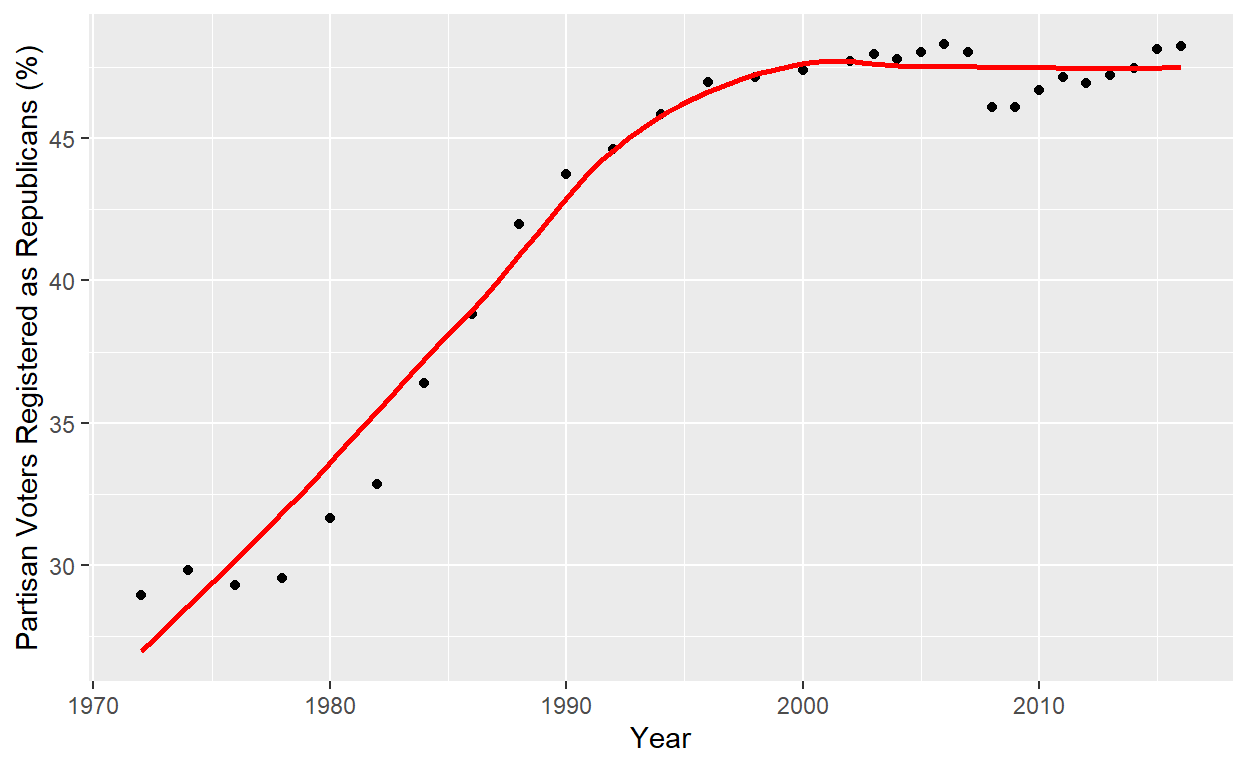
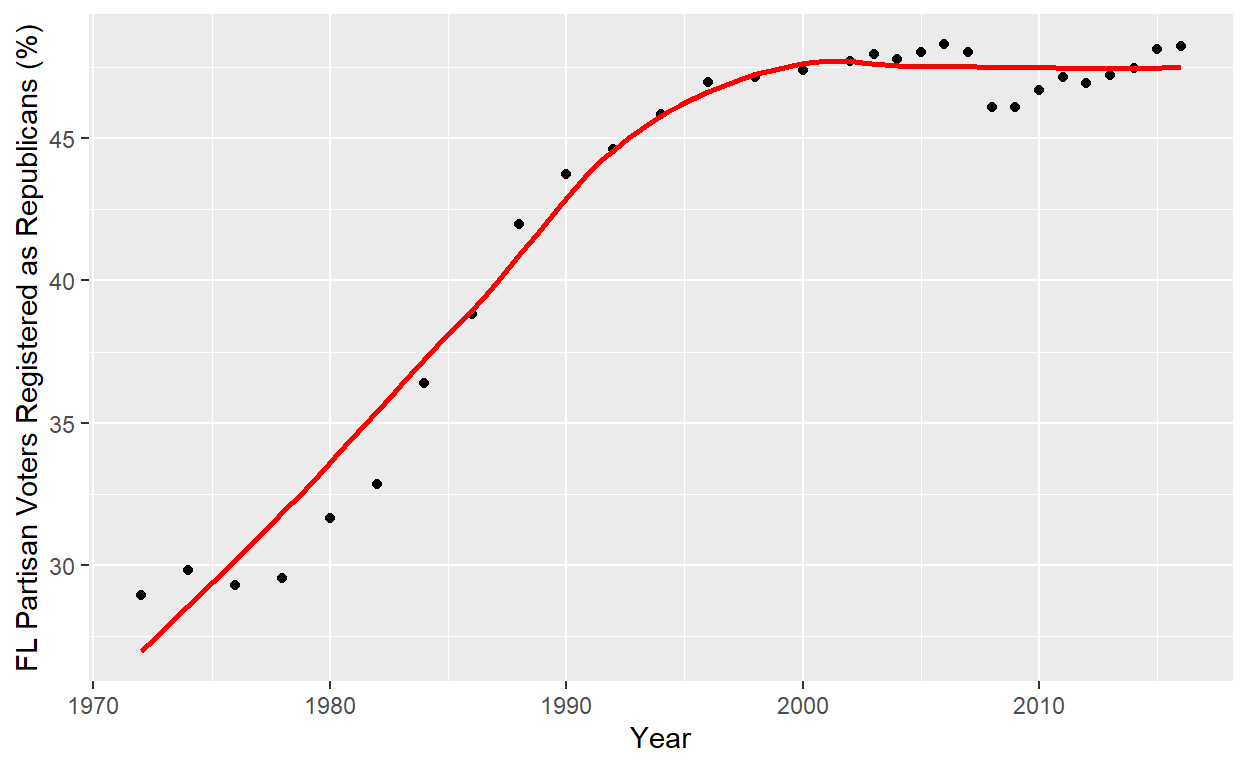
analysis (m4)

Changed region(s): [[0.0, 0.0312, 0.0312, 0.875]]

diff --git a/index.html b/index.html
@@ -115,7 +115,7 @@ code span.wa { color: #5e5e5e; font-style: italic; } /* Warning */
   <!--/radix_placeholder_rmarkdown_metadata-->
   
   <script type="text/json" id="radix-resource-manifest">
-  {"type":"character","attributes":{},"value":["data/registration.csv","index_files/anchor-4.2.2/anchor.min.js","index_files/bowser-1.9.3/bowser.min.js","index_files/distill-2.2.21/template.v2.js","index_files/figure-html5/viz1-1.png","index_files/figure-html5/viz2-1.png","index_files/header-attrs-2.17/header-attrs.js","index_files/header-attrs-2.24/header-attrs.js","index_files/jquery-3.6.0/jquery-3.6.0.js","index_files/jquery-3.6.0/jquery-3.6.0.min.js","index_files/jquery-3.6.0/jquery-3.6.0.min.map","index_files/popper-2.6.0/popper.min.js","index_files/tippy-6.2.7/tippy-bundle.umd.min.js","index_files/tippy-6.2.7/tippy-light-border.css","index_files/tippy-6.2.7/tippy.css","index_files/tippy-6.2.7/tippy.umd.min.js","index_files/webcomponents-2.0.0/webcomponents.js"]}
+  {"type":"character","attributes":{},"value":["data/income.csv","data/registration.csv","index_files/anchor-4.2.2/anchor.min.js","index_files/bowser-1.9.3/bowser.min.js","index_files/distill-2.2.21/template.v2.js","index_files/figure-html5/analysis1-1.png","index_files/figure-html5/viz1-1.png","index_files/figure-html5/viz2-1.png","index_files/header-attrs-2.17/header-attrs.js","index_files/header-attrs-2.24/header-attrs.js","index_files/jquery-3.6.0/jquery-3.6.0.js","index_files/jquery-3.6.0/jquery-3.6.0.min.js","index_files/jquery-3.6.0/jquery-3.6.0.min.map","index_files/popper-2.6.0/popper.min.js","index_files/tippy-6.2.7/tippy-bundle.umd.min.js","index_files/tippy-6.2.7/tippy-light-border.css","index_files/tippy-6.2.7/tippy.css","index_files/tippy-6.2.7/tippy.umd.min.js","index_files/webcomponents-2.0.0/webcomponents.js"]}
   </script>
   <!--radix_placeholder_navigation_in_header-->
   <!--/radix_placeholder_navigation_in_header-->
@@ -1522,6 +1522,7 @@ code span.wa { color: #5e5e5e; font-style: italic; } /* Warning */
 <h2 id="proposal">Proposal</h2>
 <p>What factors have primarily contributed to the shift in Florida’s voting patterns over time? In this project, I plan to study various factors of Florida’s demographics and their changes over time. I will attempt to determine which factors are most correlated with the change in Florida’s voting patterns over time in US Presidential elections. I will examine the data first on a state level and then attempt to examine data on a county level to find more minute, speicifc demographic shifts. I will look at demographics such as median or average age, college degree rate, median income, race, and possibly other factors. I will then find the correlation between changes in these variables and the proportion of votes for the Republican candidate. I hypothesize age and college degree rate will have the most prounounced effect on voting patterns. This would be confirmed by examining a strong positive correlation between age and proportion of Republican votes and a strong negative correlation between college degree rate and proportion of Republican votes.</p>
 <p>I will be using data from the <a href="https://results.elections.myflorida.com/">Florida Department of State Election Results website</a>. I will download the state and country-level data and merge it with the necessary demographic data. The data is fully comprehensive, and I will attempt to use data dating back to the 1992 election, though the data goes back to 1978.</p>
+<h2 id="visualization">Visualization</h2>
 <p>Visualization One:</p>
 <div class="layout-chunk" data-layout="l-body">
 <div class="sourceCode">
@@ -1536,7 +1537,7 @@ code span.wa { color: #5e5e5e; font-style: italic; } /* Warning */
 <span><span class='va'>repPortionPlot</span> <span class='op'>&lt;-</span> <span class='fu'><a href='https://ggplot2.tidyverse.org/reference/ggplot.html'>ggplot</a></span><span class='op'>(</span>data <span class='op'>=</span> <span class='va'>registration</span>,</span>
 <span>       mapping <span class='op'>=</span> <span class='fu'><a href='https://ggplot2.tidyverse.org/reference/aes.html'>aes</a></span><span class='op'>(</span>x <span class='op'>=</span> <span class='va'>year</span>,</span>
 <span>                     y <span class='op'>=</span> <span class='va'>repPortion</span><span class='op'>)</span><span class='op'>)</span> <span class='op'>+</span></span>
-<span>  <span class='fu'><a href='https://ggplot2.tidyverse.org/reference/geom_point.html'>geom_point</a></span><span class='op'>(</span><span class='op'>)</span> <span class='op'>+</span> <span class='fu'><a href='https://ggplot2.tidyverse.org/reference/geom_smooth.html'>geom_smooth</a></span><span class='op'>(</span>method <span class='op'>=</span> <span class='st'>"loess"</span>, se <span class='op'>=</span> <span class='cn'>FALSE</span>, color <span class='op'>=</span> <span class='st'>'red'</span><span class='op'>)</span> <span class='op'>+</span> <span class='fu'><a href='https://ggplot2.tidyverse.org/reference/labs.html'>labs</a></span><span class='op'>(</span>x<span class='op'>=</span><span class='st'>'Year'</span>, y <span class='op'>=</span> <span class='st'>'Partisan Voters Registered as Republicans (%)'</span><span class='op'>)</span></span>
+<span>  <span class='fu'><a href='https://ggplot2.tidyverse.org/reference/geom_point.html'>geom_point</a></span><span class='op'>(</span><span class='op'>)</span> <span class='op'>+</span> <span class='fu'><a href='https://ggplot2.tidyverse.org/reference/geom_smooth.html'>geom_smooth</a></span><span class='op'>(</span>method <span class='op'>=</span> <span class='st'>"loess"</span>, se <span class='op'>=</span> <span class='cn'>FALSE</span>, color <span class='op'>=</span> <span class='st'>'red'</span><span class='op'>)</span> <span class='op'>+</span> <span class='fu'><a href='https://ggplot2.tidyverse.org/reference/labs.html'>labs</a></span><span class='op'>(</span>x<span class='op'>=</span><span class='st'>'Year'</span>, y <span class='op'>=</span> <span class='st'>'FL Partisan Voters Registered as Republicans (%)'</span><span class='op'>)</span></span>
 <span>  </span>
 <span><span class='va'>repPortionPlot</span></span></code></pre>
 </div>
@@ -1550,12 +1551,60 @@ code span.wa { color: #5e5e5e; font-style: italic; } /* Warning */
 <span><span class='va'>repPortionPlot</span> <span class='op'>&lt;-</span> <span class='fu'><a href='https://ggplot2.tidyverse.org/reference/ggplot.html'>ggplot</a></span><span class='op'>(</span>data <span class='op'>=</span> <span class='va'>registration</span>,</span>
 <span>       mapping <span class='op'>=</span> <span class='fu'><a href='https://ggplot2.tidyverse.org/reference/aes.html'>aes</a></span><span class='op'>(</span>x <span class='op'>=</span> <span class='va'>year</span>,</span>
 <span>                     y <span class='op'>=</span> <span class='va'>demPortion</span><span class='op'>)</span><span class='op'>)</span> <span class='op'>+</span></span>
-<span>  <span class='fu'><a href='https://ggplot2.tidyverse.org/reference/geom_point.html'>geom_point</a></span><span class='op'>(</span><span class='op'>)</span> <span class='op'>+</span> <span class='fu'><a href='https://ggplot2.tidyverse.org/reference/geom_smooth.html'>geom_smooth</a></span><span class='op'>(</span>method <span class='op'>=</span> <span class='st'>"loess"</span>, se <span class='op'>=</span> <span class='cn'>FALSE</span>, color <span class='op'>=</span> <span class='st'>'blue'</span><span class='op'>)</span> <span class='op'>+</span> <span class='fu'><a href='https://ggplot2.tidyverse.org/reference/labs.html'>labs</a></span><span class='op'>(</span>x<span class='op'>=</span><span class='st'>'Year'</span>, y <span class='op'>=</span> <span class='st'>'Partisan Voters Registered as Democrats (%)'</span><span class='op'>)</span></span>
+<span>  <span class='fu'><a href='https://ggplot2.tidyverse.org/reference/geom_point.html'>geom_point</a></span><span class='op'>(</span><span class='op'>)</span> <span class='op'>+</span> <span class='fu'><a href='https://ggplot2.tidyverse.org/reference/geom_smooth.html'>geom_smooth</a></span><span class='op'>(</span>method <span class='op'>=</span> <span class='st'>"loess"</span>, se <span class='op'>=</span> <span class='cn'>FALSE</span>, color <span class='op'>=</span> <span class='st'>'blue'</span><span class='op'>)</span> <span class='op'>+</span> <span class='fu'><a href='https://ggplot2.tidyverse.org/reference/labs.html'>labs</a></span><span class='op'>(</span>x<span class='op'>=</span><span class='st'>'Year'</span>, y <span class='op'>=</span> <span class='st'>'FL Partisan Voters Registered as Democrats (%)'</span><span class='op'>)</span></span>
 <span>  </span>
 <span><span class='va'>repPortionPlot</span></span></code></pre>
 </div>
 <p><img src="index_files/figure-html5/viz2-1.png" width="624" /></p>
 </div>
+<h2 id="analysis">Analysis</h2>
+<div class="layout-chunk" data-layout="l-body">
+<div class="sourceCode">
+<pre class="sourceCode r"><code class="sourceCode r"><span><span class='va'>income</span> <span class='op'>&lt;-</span> <span class='fu'><a href='https://readr.tidyverse.org/reference/read_delim.html'>read_csv</a></span><span class='op'>(</span><span class='st'>'data/income.csv'</span><span class='op'>)</span></span>
+<span><span class='va'>income</span> <span class='op'>&lt;-</span> <span class='va'>income</span> <span class='op'>|&gt;</span> <span class='fu'><a href='https://dplyr.tidyverse.org/reference/mutate-joins.html'>inner_join</a></span><span class='op'>(</span><span class='va'>registration</span><span class='op'>)</span></span>
+<span></span>
+<span><span class='va'>coeff</span> <span class='op'>&lt;-</span> <span class='fl'>1200</span></span>
+<span></span>
+<span><span class='va'>repIncomePlot</span> <span class='op'>&lt;-</span> <span class='fu'><a href='https://ggplot2.tidyverse.org/reference/ggplot.html'>ggplot</a></span><span class='op'>(</span><span class='va'>income</span>, <span class='fu'><a href='https://ggplot2.tidyverse.org/reference/aes.html'>aes</a></span><span class='op'>(</span>x<span class='op'>=</span><span class='va'>year</span><span class='op'>)</span><span class='op'>)</span> <span class='op'>+</span></span>
+<span>  </span>
+<span>  <span class='fu'><a href='https://ggplot2.tidyverse.org/reference/geom_path.html'>geom_line</a></span><span class='op'>(</span> <span class='fu'><a href='https://ggplot2.tidyverse.org/reference/aes.html'>aes</a></span><span class='op'>(</span>y<span class='op'>=</span><span class='va'>repPortion</span>, color <span class='op'>=</span> <span class='st'>'Republican Portion'</span><span class='op'>)</span><span class='op'>)</span> <span class='op'>+</span> </span>
+<span>  <span class='fu'><a href='https://ggplot2.tidyverse.org/reference/geom_path.html'>geom_line</a></span><span class='op'>(</span> <span class='fu'><a href='https://ggplot2.tidyverse.org/reference/aes.html'>aes</a></span><span class='op'>(</span>y<span class='op'>=</span><span class='va'>median_income</span> <span class='op'>/</span> <span class='va'>coeff</span>, color <span class='op'>=</span> <span class='st'>'Median Income'</span><span class='op'>)</span><span class='op'>)</span> <span class='op'>+</span></span>
+<span>  <span class='fu'><a href='https://ggplot2.tidyverse.org/reference/scale_continuous.html'>scale_y_continuous</a></span><span class='op'>(</span></span>
+<span>    name <span class='op'>=</span> <span class='st'>"FL Partisan Voters Registered as Republicans (%)"</span>,</span>
+<span>    sec.axis <span class='op'>=</span> <span class='fu'><a href='https://ggplot2.tidyverse.org/reference/sec_axis.html'>sec_axis</a></span><span class='op'>(</span><span class='op'>~</span><span class='va'>.</span><span class='op'>*</span><span class='va'>coeff</span>, name<span class='op'>=</span><span class='st'>"Median Income (2022 Real USD)"</span><span class='op'>)</span></span>
+<span>  <span class='op'>)</span> <span class='op'>+</span> <span class='fu'><a href='https://ggplot2.tidyverse.org/reference/scale_manual.html'>scale_color_manual</a></span><span class='op'>(</span>values <span class='op'>=</span> <span class='fu'><a href='https://rdrr.io/r/base/c.html'>c</a></span><span class='op'>(</span><span class='st'>"Republican Portion"</span> <span class='op'>=</span> <span class='st'>"red"</span>, <span class='st'>"Median Income"</span> <span class='op'>=</span> <span class='st'>"darkgreen"</span><span class='op'>)</span><span class='op'>)</span> <span class='op'>+</span> <span class='fu'><a href='https://ggplot2.tidyverse.org/reference/labs.html'>labs</a></span><span class='op'>(</span>title <span class='op'>=</span> <span class='st'>'FL Republican Portion vs. Median Income by Year'</span><span class='op'>)</span></span>
+<span></span>
+<span><span class='va'>repIncomePlot</span></span></code></pre>
+</div>
+<p><img src="index_files/figure-html5/analysis1-1.png" width="624" /></p>
+</div>
+<div class="layout-chunk" data-layout="l-body">
+<div class="sourceCode">
+<pre class="sourceCode r"><code class="sourceCode r"><span><span class='va'>income</span> <span class='op'>|&gt;</span></span>
+<span>  <span class='fu'><a href='https://dplyr.tidyverse.org/reference/summarise.html'>summarize</a></span><span class='op'>(</span><span class='fu'><a href='https://rdrr.io/r/stats/cor.html'>cor</a></span><span class='op'>(</span><span class='va'>repPortion</span>, <span class='va'>median_income</span><span class='op'>)</span><span class='op'>)</span> <span class='op'>|&gt;</span> <span class='fu'>knitr</span><span class='fu'>::</span><span class='fu'><a href='https://rdrr.io/pkg/knitr/man/kable.html'>kable</a></span><span class='op'>(</span>digits <span class='op'>=</span> <span class='fl'>3</span>, col.names <span class='op'>=</span> <span class='fu'><a href='https://rdrr.io/r/base/c.html'>c</a></span><span class='op'>(</span><span class='st'>'Correlation between Republican Portion and Median Income by Year in FL'</span><span class='op'>)</span><span class='op'>)</span></span></code></pre>
+</div>
+<table>
+<colgroup>
+<col style="width: 100%" />
+</colgroup>
+<thead>
+<tr class="header">
+<th style="text-align: right;">Correlation between Republican Portion and Median Income by Year in FL</th>
+</tr>
+</thead>
+<tbody>
+<tr class="odd">
+<td style="text-align: right;">0.685</td>
+</tr>
+</tbody>
+</table>
+</div>
+<p>In the above graph and figure, we see a relatively strong, positive correlation between the (inflation-adjusted) median income in FL and the portion of partisan voters in the state registered as Republicans. This correlation is likely non-trivial, and I would assume there is a decent relationship between other variables to be explored in the remainder of the project, such as median age across the state. An increased in income is correlated with increases an age, and both of these factors can historically be correlated to increases in likelihood to be registered as a republican. Across the past 50 years in Florida, I hypothesize we will begin to see similar patterns in the demographic makeup and correlations within the state. As the median income in Florida rises, it is linked to an increase in suburban neighborhoods, more white-collar positions throughout the state, and a wealthier demographic overall, all of which I believe would drive an increase in republican registration proportions.</p>
+<h2 id="sources">Sources</h2>
+<p><a href="https://usafacts.org/data/topics/people-society/population-and-demographics/our-changing-population/state/florida/?endDate=2021-01-01&amp;startDate=1972-01-01">USA Facts</a></p>
+<p><a href="https://dos.fl.gov/elections/data-statistics/voter-registration-statistics/voter-registration-reports/voter-registration-by-party-affiliation/by-party-affiliation-archive/">Florida Department of State</a></p>
+<p><a href="https://fred.stlouisfed.org/series/MEHOINUSFLA672N">Federal Reserve Bank Of St. Louis</a></p>
+<p><a href="https://www.statista.com/statistics/205798/median-household-income-in-florida/">Statista</a></p>
 <div class="sourceCode" id="cb1"><pre class="sourceCode r distill-force-highlighting-css"><code class="sourceCode r"></code></pre></div>
 <!--radix_placeholder_article_footer-->
 <!--/radix_placeholder_article_footer-->
